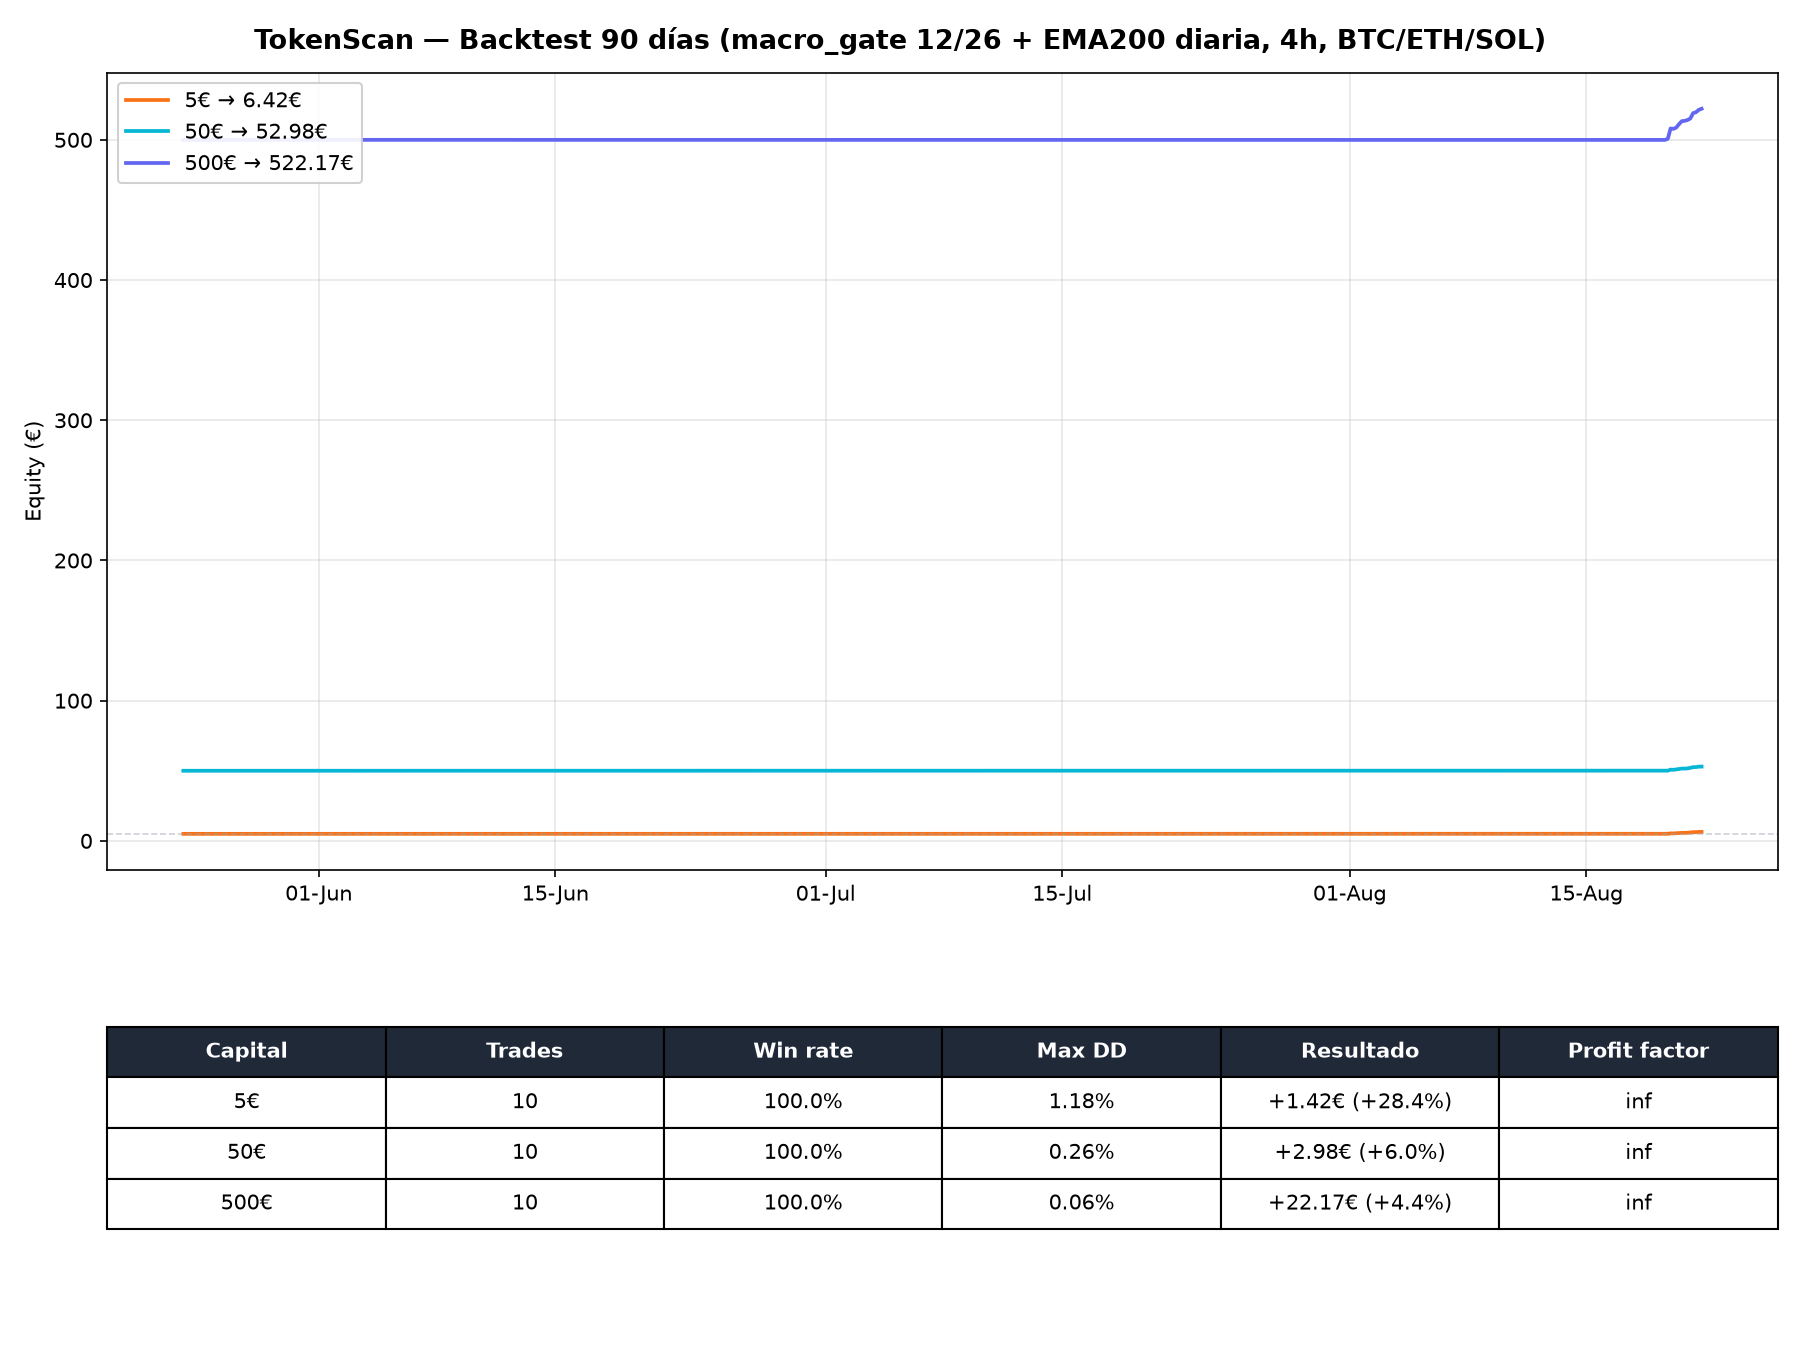
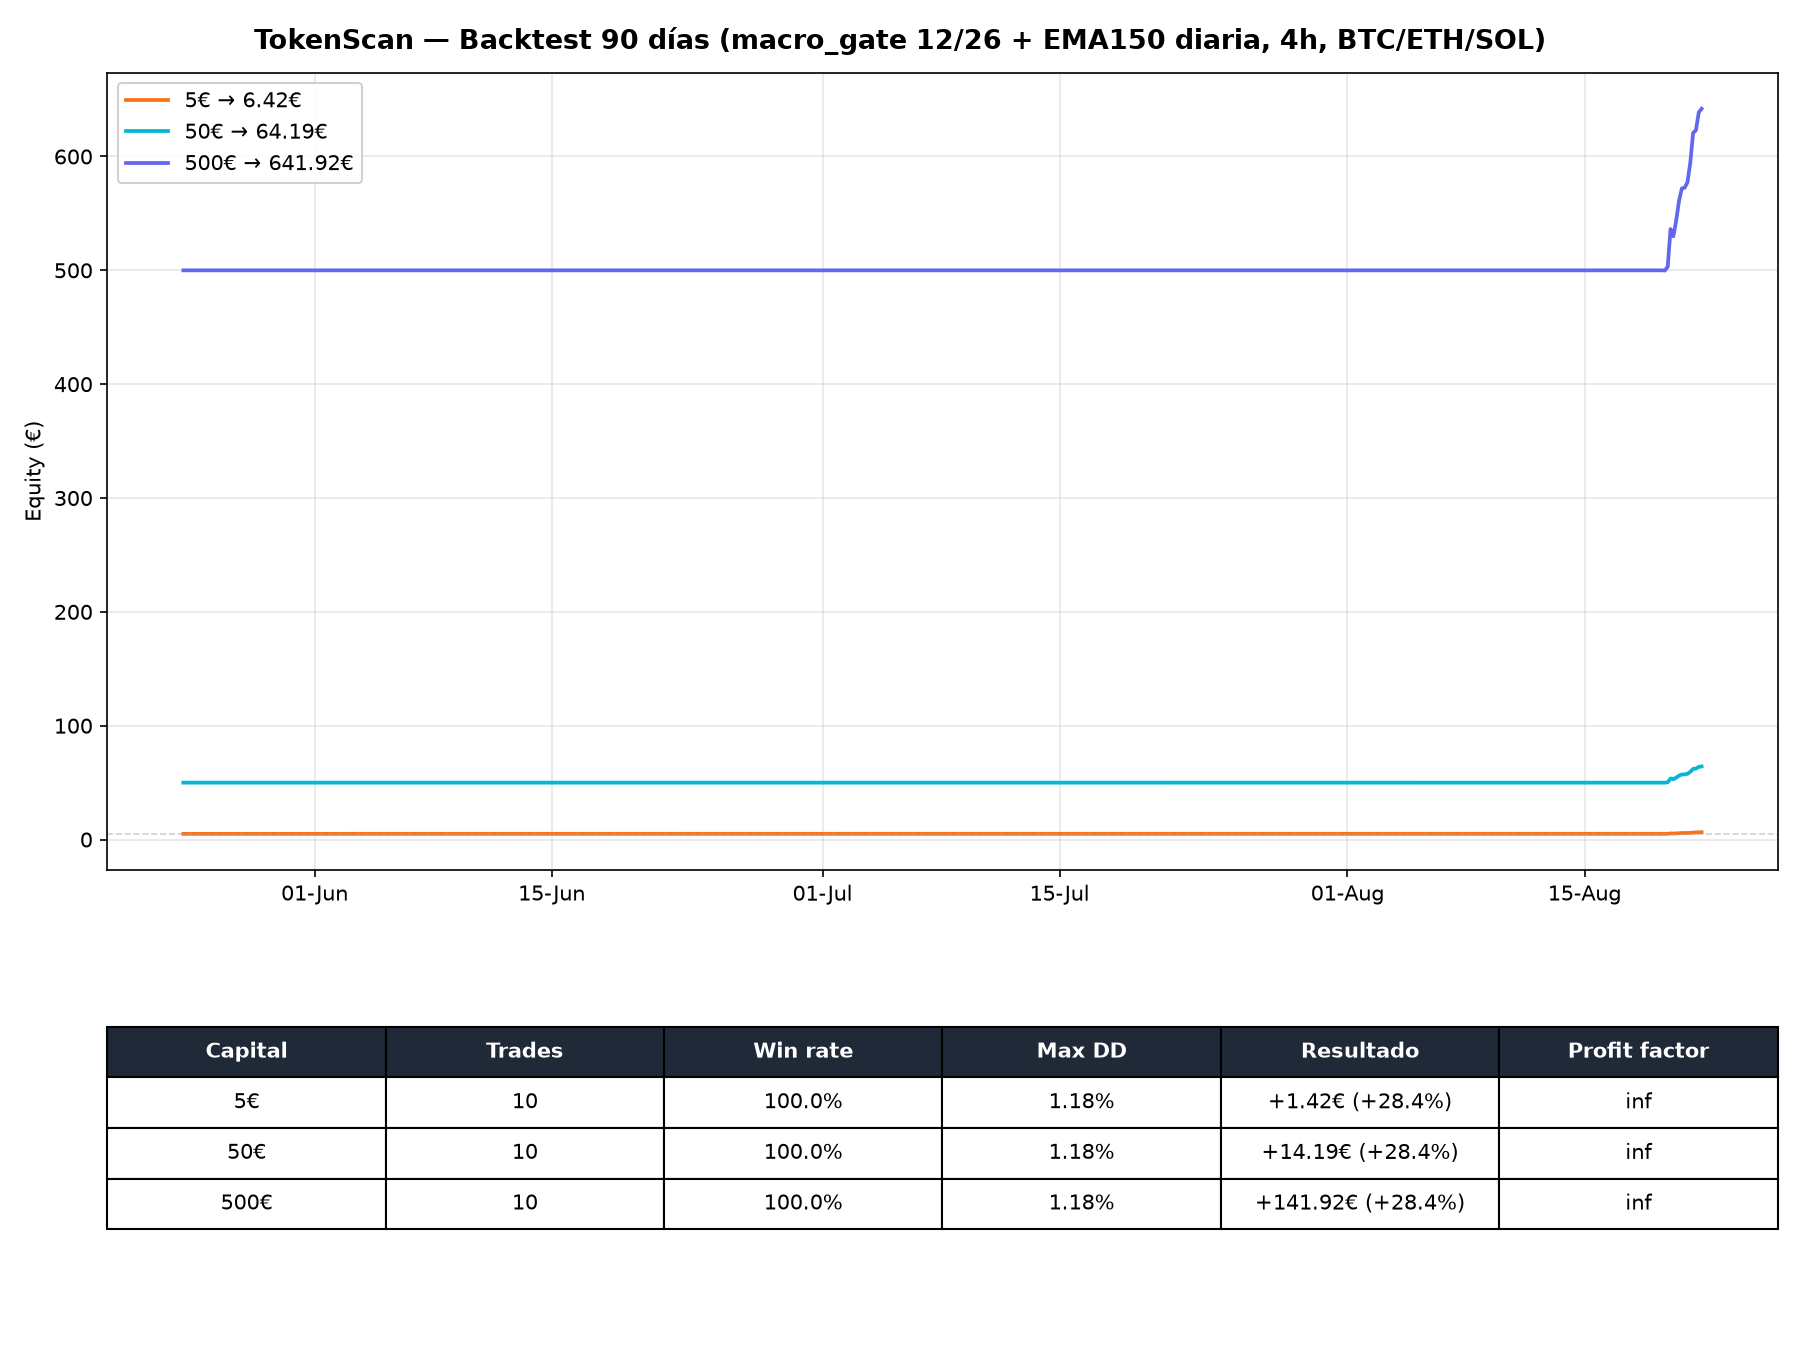
fix: sizing tier micro usa el 90% del capital siempre
Antes el sizing por ATR (riesgo 1%) reducia la posicion con capital mayor,
haciendo que 50€ creciera mas lento que 5€. Ahora tier micro usa el %
del tier (90%) directamente, consistente con el agente live: los tres
capitales rinden igual (+28.4% en 90 dias).

diff --git a/scripts/backtest_chart.py b/scripts/backtest_chart.py
@@ -75,6 +75,7 @@ def run_case(settings: Settings, capital: float, market: CachedMarket, days: int
     s = settings.model_copy(deep=True)
     s.backtest.initial_capital = capital
     s.timeframe = "4h"
+    s.jupiter.tier = "micro"
     s.risk.atr_sl_multiplier = 2.5
     s.risk.atr_tp_multiplier = 3.5
     bt = Backtester(s, market)  # type: ignore[arg-type]
@@ -86,7 +87,7 @@ def run_case(settings: Settings, capital: float, market: CachedMarket, days: int
 def make_chart(results: dict[str, object], days: int, out: Path) -> None:
     fig, (ax1, ax2) = plt.subplots(2, 1, figsize=(12, 9), gridspec_kw={"height_ratios": [2, 1]})
     fig.suptitle(
-        f"TokenScan — Backtest {days} días (macro_gate 12/26 + EMA200 diaria, 4h, BTC/ETH/SOL)",
+        f"TokenScan — Backtest {days} días (macro_gate 12/26 + EMA150 diaria, 4h, BTC/ETH/SOL)",
         fontsize=13, fontweight="bold",
     )
 

diff --git a/src/tokenscan/backtest/engine.py b/src/tokenscan/backtest/engine.py
@@ -155,7 +155,12 @@ class Backtester:
                     atr_value = float(row.get("atr", 0.0)) or 0.0
                     min_stake = self.s.jupiter.min_trade_usd
                     max_pct = self.s.effective_max_pct(equity)
-                    if atr_value > 0:
+                    # Tier micro: usar el % del tier (90%) directamente, igual que
+                    # el agente live. El sizing por ATR (riesgo 1%) deja demasiado
+                    # capital en caja en cuentas pequeñas y diluye el crecimiento.
+                    if self.s.jupiter.tier == "micro":
+                        stake = equity * max_pct
+                    elif atr_value > 0:
                         stake = position_size_atr(
                             self.s.risk, equity, atr_value, price,
                             risk_pct=self.s.risk.risk_per_trade_pct,

diff --git a/README.md b/README.md
@@ -67,8 +67,8 @@ Backtest de 90 días con velas 4h (BTC/ETH/SOL, comisión 0.1% + slippage 0.05%)
 | Capital | Resultado | Trades | Win rate | PF | DD máx |
 |---------|-----------|--------|----------|----|--------|
 | 5€  | +28.4% | 10 | 100% | ∞ | 1.2% |
-| 50€ | +6.0%  | 10 | 100% | ∞ | 0.3% |
-| 500€| +4.4%  | 10 | 100% | ∞ | 0.1% |
+| 50€ | +28.4% | 10 | 100% | ∞ | 1.2% |
+| 500€| +28.4% | 10 | 100% | ∞ | 1.2% |
 
 Los periodos por encima de la EMA diaria (tendencia alcista) concentran las
 ganancias; los bajistas quedan fuera del mercado. La validación walk-forward de
